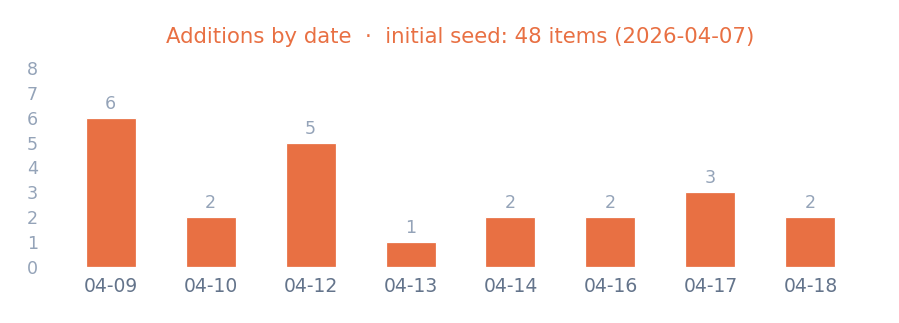
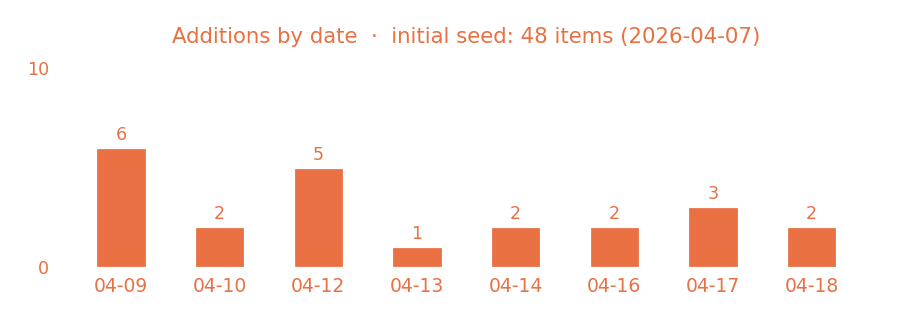
chart: fixed y-axis 0-10, all labels in bar color, no gridlines
- Y-axis shows only 0 and 10 (no intermediate ticks)
- All text (title, axis labels, value annotations) uses bar color
- No gridlines

diff --git a/scripts/generate_readme.py b/scripts/generate_readme.py
@@ -470,21 +470,21 @@ def generate_additions_chart(additions: list[dict]) -> None:
             ha="center",
             va="bottom",
             fontsize=7,
-            color="#94a3b8",
+            color=BAR_COLOR,
             fontfamily="sans-serif",
         )
 
-    # Y-axis: integers only, no gridlines
-    ax.yaxis.set_major_locator(ticker.MaxNLocator(integer=True))
-    ax.set_ylim(0, max_count + 2)
+    # Y-axis: fixed 0-10 range, show only 0 and 10
+    ax.set_ylim(0, 10)
+    ax.set_yticks([0, 10])
 
     # No spines at all
     for spine in ax.spines.values():
         spine.set_visible(False)
 
-    # Tick styling
-    ax.tick_params(axis="x", labelsize=7.5, colors="#64748b", length=0, pad=4)
-    ax.tick_params(axis="y", labelsize=7, colors="#94a3b8", length=0, pad=4)
+    # Tick styling — same color as bars and title
+    ax.tick_params(axis="x", labelsize=7.5, colors=BAR_COLOR, length=0, pad=4)
+    ax.tick_params(axis="y", labelsize=7, colors=BAR_COLOR, length=0, pad=4)
 
     # Title in bar color
     ax.set_title(
